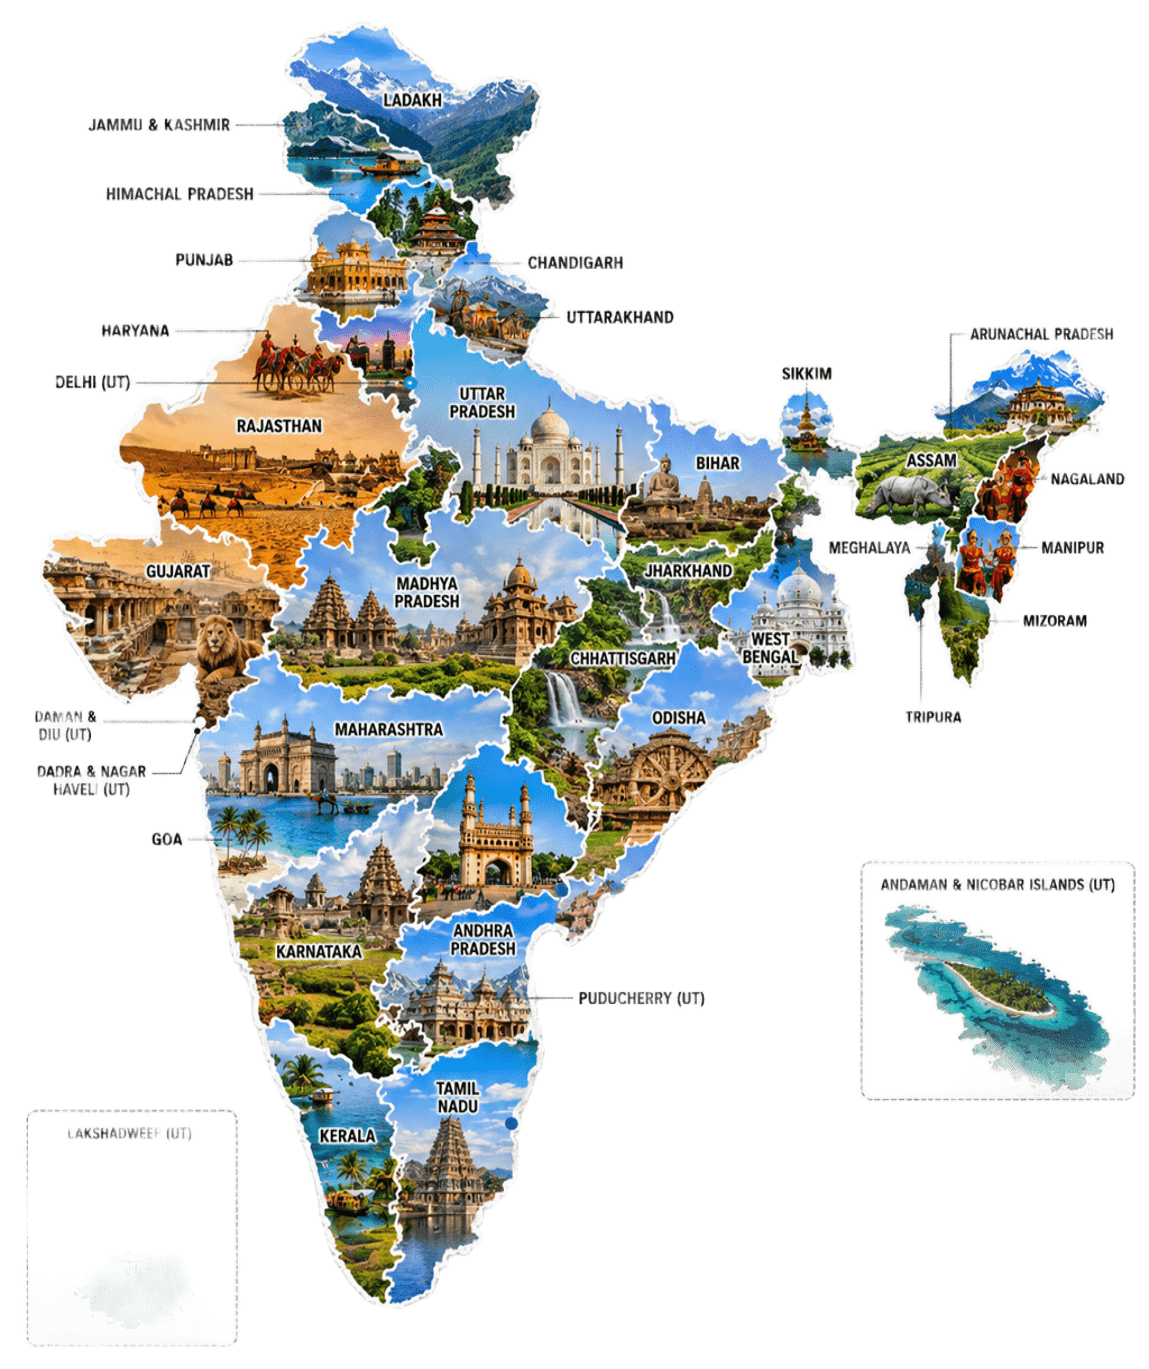
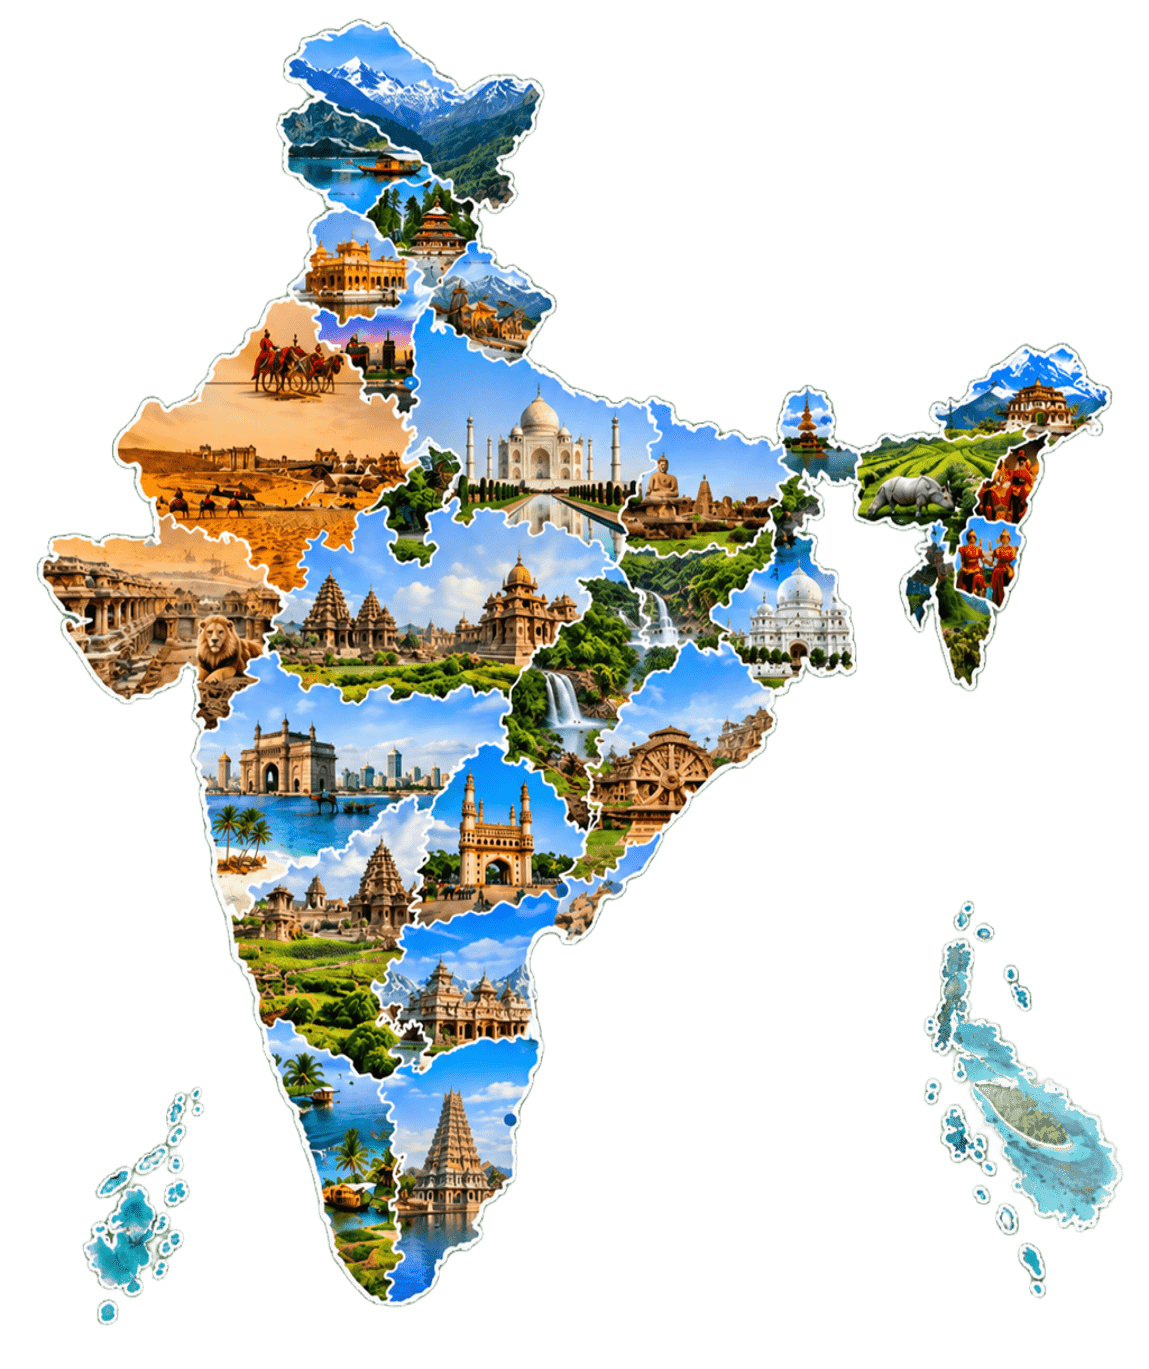
refactor: enhance code readability with structured comments in IndiaMap component

diff --git a/components/IndiaMap.jsx b/components/IndiaMap.jsx
@@ -9,6 +9,10 @@ import {
 
 import styles from "./IndiaMap.module.css";
 
+/* ============================================================
+   FONTS
+============================================================ */
+
 const spaceGrotesk = Space_Grotesk({
   subsets: ["latin"],
   weight: ["500", "700"],
@@ -359,11 +363,19 @@ const PROJECT_LOCATIONS = [
 export default function IndiaMap() {
   const [activeLocation, setActiveLocation] = useState(null);
 
+  /* ============================================================
+     LOCATION CLICK
+  ============================================================ */
+
   const handleLocationClick = (location) => {
     setActiveLocation((current) =>
       current?.id === location.id ? null : location
     );
   };
+
+  /* ============================================================
+     MOUSE ENTER
+  ============================================================ */
 
   const handleMouseEnter = (location) => {
     if (
@@ -374,10 +386,18 @@ export default function IndiaMap() {
     }
   };
 
+  /* ============================================================
+     CLOSE PROJECT CARD
+  ============================================================ */
+
   const closeCard = (event) => {
     event.stopPropagation();
     setActiveLocation(null);
   };
+
+  /* ============================================================
+     RENDER
+  ============================================================ */
 
   return (
     <section
@@ -388,10 +408,18 @@ export default function IndiaMap() {
         ${styles.indiaMapSection}
       `}
     >
+      {/* ========================================================
+          DECORATIVE LEDGER LINES
+      ======================================================== */}
+
       <div
         className={styles.ledgerLines}
         aria-hidden="true"
       />
+
+      {/* ========================================================
+          CORNER MARKS
+      ======================================================== */}
 
       <span
         className={`${styles.cornerMark} ${styles.cornerTl}`}
@@ -415,11 +443,12 @@ export default function IndiaMap() {
 
       <div className={styles.container}>
 
-        {/* =====================================================
+        {/* ======================================================
             HEADER
-        ===================================================== */}
+        ====================================================== */}
 
         <div className={styles.header}>
+
           <div className={styles.headerLeft}>
             <p className={styles.eyebrow}>
               SDS BHARAT INFRATECH PVT. LTD. — NATIONAL PRESENCE
@@ -449,23 +478,26 @@ export default function IndiaMap() {
               </span>
             </div>
           </div>
+
         </div>
 
-        {/* =====================================================
+        {/* ======================================================
             MAP
-        ===================================================== */}
+        ====================================================== */}
 
         <div className={styles.mapArea}>
+
           <div className={styles.mapFrame}>
 
             {/* 
               IMPORTANT:
-              The map must exist at:
+              Place your map image here:
 
               /public/images/home/india-map.png
 
-              Using a normal <img> here avoids the Next.js
-              next/image width/height requirement.
+              We are intentionally using a normal <img>
+              instead of Next.js <Image> so that you don't
+              need to provide width/height.
             */}
 
             <img
@@ -475,11 +507,12 @@ export default function IndiaMap() {
               draggable="false"
             />
 
-            {/* =================================================
+            {/* ==================================================
                 INTERACTIVE LOCATION PINS
-            ================================================= */}
+            ================================================== */}
 
             <div className={styles.mapOverlay}>
+
               {PROJECT_LOCATIONS.map((location) => {
                 const isActive =
                   activeLocation?.id === location.id;
@@ -496,7 +529,10 @@ export default function IndiaMap() {
                       top: `${location.y}%`,
                     }}
                   >
-                    {/* PIN */}
+
+                    {/* ==================================================
+                        PIN
+                    ================================================== */}
 
                     <button
                       type="button"
@@ -526,7 +562,9 @@ export default function IndiaMap() {
                       />
                     </button>
 
-                    {/* PROJECT CARD */}
+                    {/* ==================================================
+                        PROJECT CARD
+                    ================================================== */}
 
                     <div
                       className={`
@@ -539,7 +577,13 @@ export default function IndiaMap() {
                         }
                       `}
                     >
+
+                      {/* ==================================================
+                          CARD HEADER
+                      ================================================== */}
+
                       <div className={styles.cardHeader}>
+
                         <div>
                           <span className={styles.cardNumber}>
                             {String(location.id).padStart(2, "0")}
@@ -558,17 +602,31 @@ export default function IndiaMap() {
                         >
                           ×
                         </button>
+
                       </div>
+
+                      {/* ==================================================
+                          CARD DIVIDER
+                      ================================================== */}
 
                       <div
                         className={styles.cardDivider}
                       />
 
+                      {/* ==================================================
+                          PROJECT LABEL
+                      ================================================== */}
+
                       <span className={styles.cardLabel}>
                         PROJECTS
                       </span>
 
+                      {/* ==================================================
+                          PROJECT LIST
+                      ================================================== */}
+
                       <div className={styles.projectList}>
+
                         {location.projects.map(
                           (project) => (
                             <div
@@ -577,6 +635,7 @@ export default function IndiaMap() {
                               }
                               key={project.id}
                             >
+
                               <div
                                 className={
                                   styles.projectIcon
@@ -590,6 +649,7 @@ export default function IndiaMap() {
                                   styles.projectInfo
                                 }
                               >
+
                                 <h4>
                                   {project.name}
                                 </h4>
@@ -611,11 +671,18 @@ export default function IndiaMap() {
                                 >
                                   {project.status}
                                 </span>
+
                               </div>
+
                             </div>
                           )
                         )}
+
                       </div>
+
+                      {/* ==================================================
+                          VIEW PROJECTS BUTTON
+                      ================================================== */}
 
                       <button
                         type="button"
@@ -629,24 +696,33 @@ export default function IndiaMap() {
                           ↗
                         </span>
                       </button>
+
                     </div>
+
                   </div>
                 );
               })}
+
             </div>
+
           </div>
 
-          {/* =====================================================
+          {/* ======================================================
               LEGEND
-          ===================================================== */}
+          ====================================================== */}
 
           <div className={styles.legend}>
+
             <div className={styles.legendProject}>
+
               <span className={styles.legendPin}>
                 <span />
               </span>
 
-              <span>PROJECT LOCATION</span>
+              <span>
+                PROJECT LOCATION
+              </span>
+
             </div>
 
             <span
@@ -657,17 +733,21 @@ export default function IndiaMap() {
             <span>
               HOVER OR TAP ON A LOCATION TO VIEW PROJECTS
             </span>
+
           </div>
+
         </div>
 
-        {/* =====================================================
+        {/* ======================================================
             FOOTER
-        ===================================================== */}
+        ====================================================== */}
 
         <div className={styles.bottomSection}>
+
           <div className={styles.bottomLine} />
 
           <div className={styles.bottomContent}>
+
             <span className={styles.monoLabel}>
               CIVIL · INFRASTRUCTURE · TURNKEY
             </span>
@@ -681,9 +761,13 @@ export default function IndiaMap() {
             <span className={styles.monoLabel}>
               BUILDING THE NATION
             </span>
+
           </div>
+
         </div>
+
       </div>
+
     </section>
   );
 }
